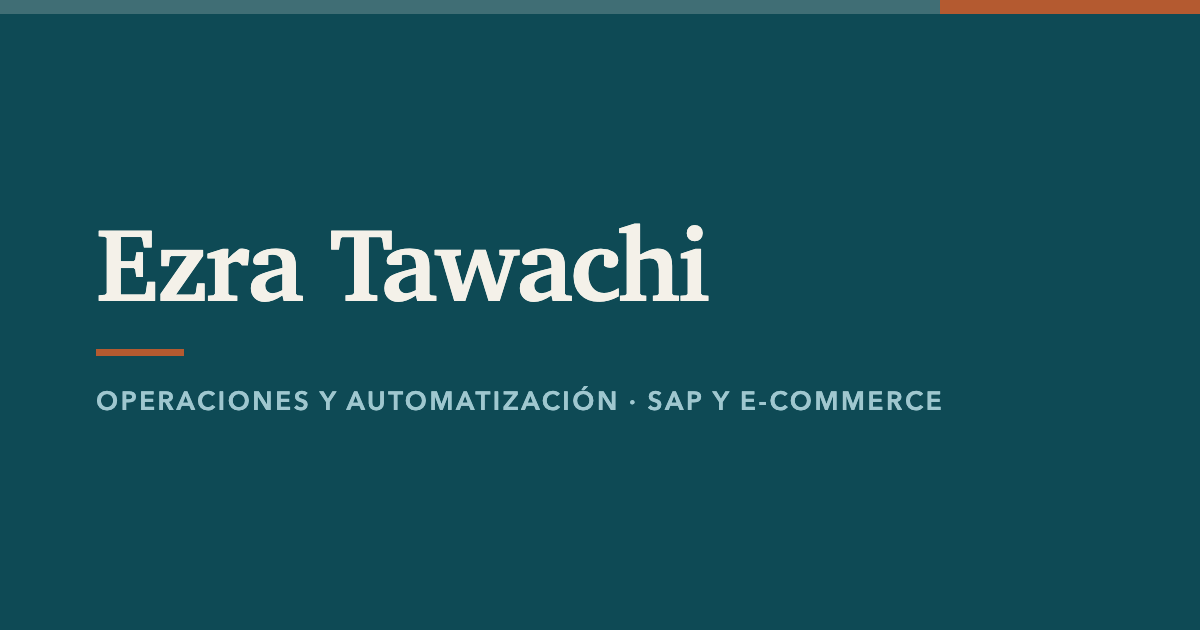
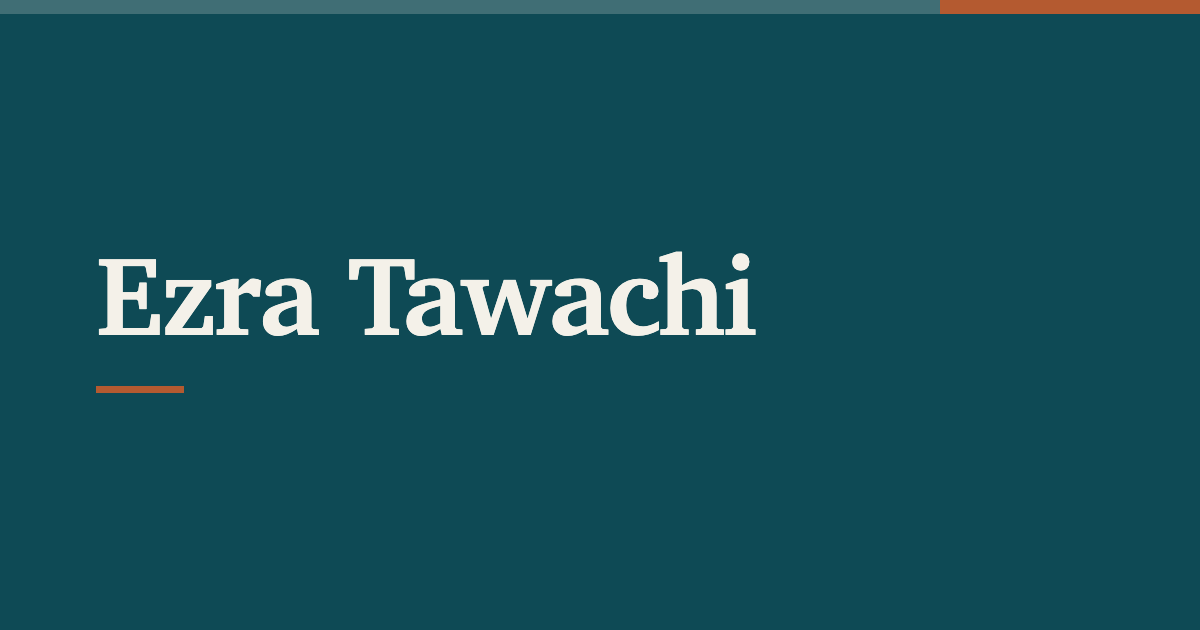
Vista previa sin etiqueta profesional
La imagen y la descripción de Open Graph mostraban el titular, lo que
convertía la vista previa en un aviso. Ahora la imagen lleva solo el
nombre y la descripción dice qué es el enlace.

La meta description normal conserva el titular: la lee Google, donde
sí es útil.

Changed region(s): [[0.0617, 0.3619, 0.6475, 0.573], [0.0617, 0.6032, 0.8017, 0.6635]]

diff --git a/index.html b/index.html
@@ -13,15 +13,15 @@
 <meta property="og:site_name" content="Ezra Tawachi">
 <meta property="og:url" content="https://ezratawachi.github.io/">
 <meta property="og:title" content="Ezra Tawachi">
-<meta property="og:description" content="Operaciones y Automatización · SAP y E-commerce. Panamá.">
+<meta property="og:description" content="Hoja de vida · Panamá">
 <meta property="og:image" content="https://ezratawachi.github.io/og.png">
 <meta property="og:image:width" content="1200">
 <meta property="og:image:height" content="630">
-<meta property="og:image:alt" content="Ezra Tawachi — Operaciones y Automatización · SAP y E-commerce">
+<meta property="og:image:alt" content="Ezra Tawachi">
 
 <meta name="twitter:card" content="summary_large_image">
 <meta name="twitter:title" content="Ezra Tawachi">
-<meta name="twitter:description" content="Operaciones y Automatización · SAP y E-commerce. Panamá.">
+<meta name="twitter:description" content="Hoja de vida · Panamá">
 <meta name="twitter:image" content="https://ezratawachi.github.io/og.png">
 <style>
   :root{
